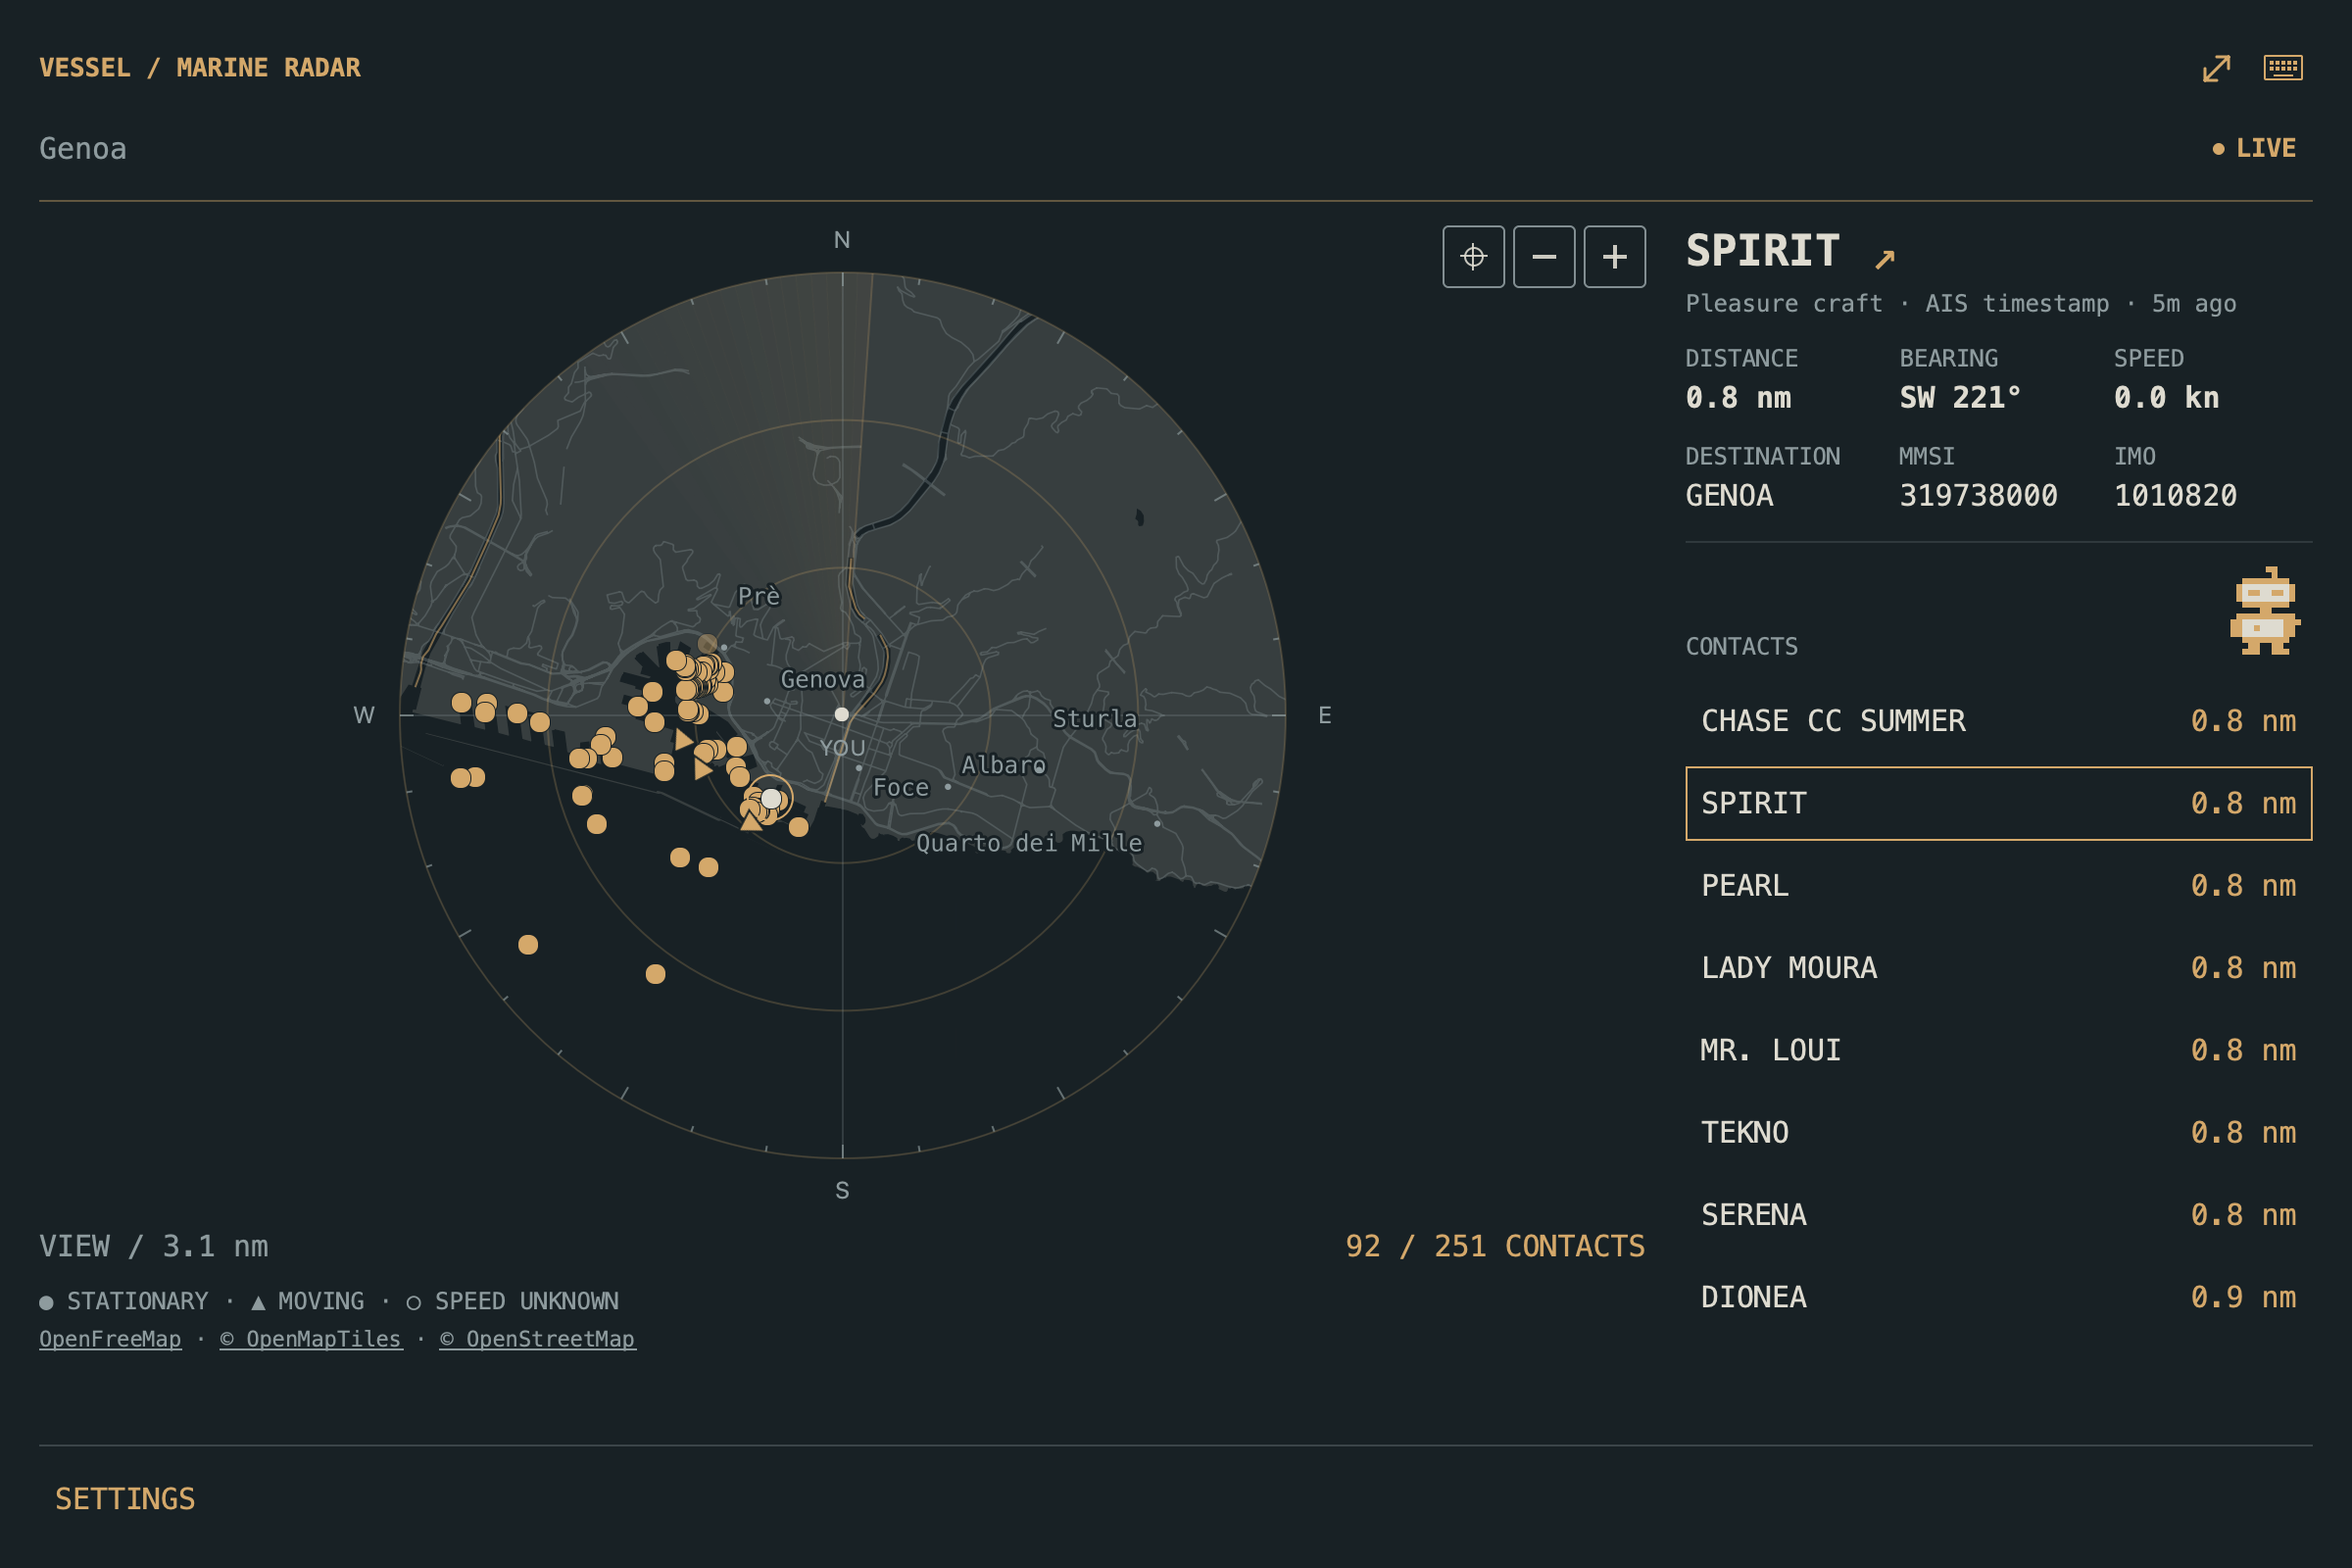
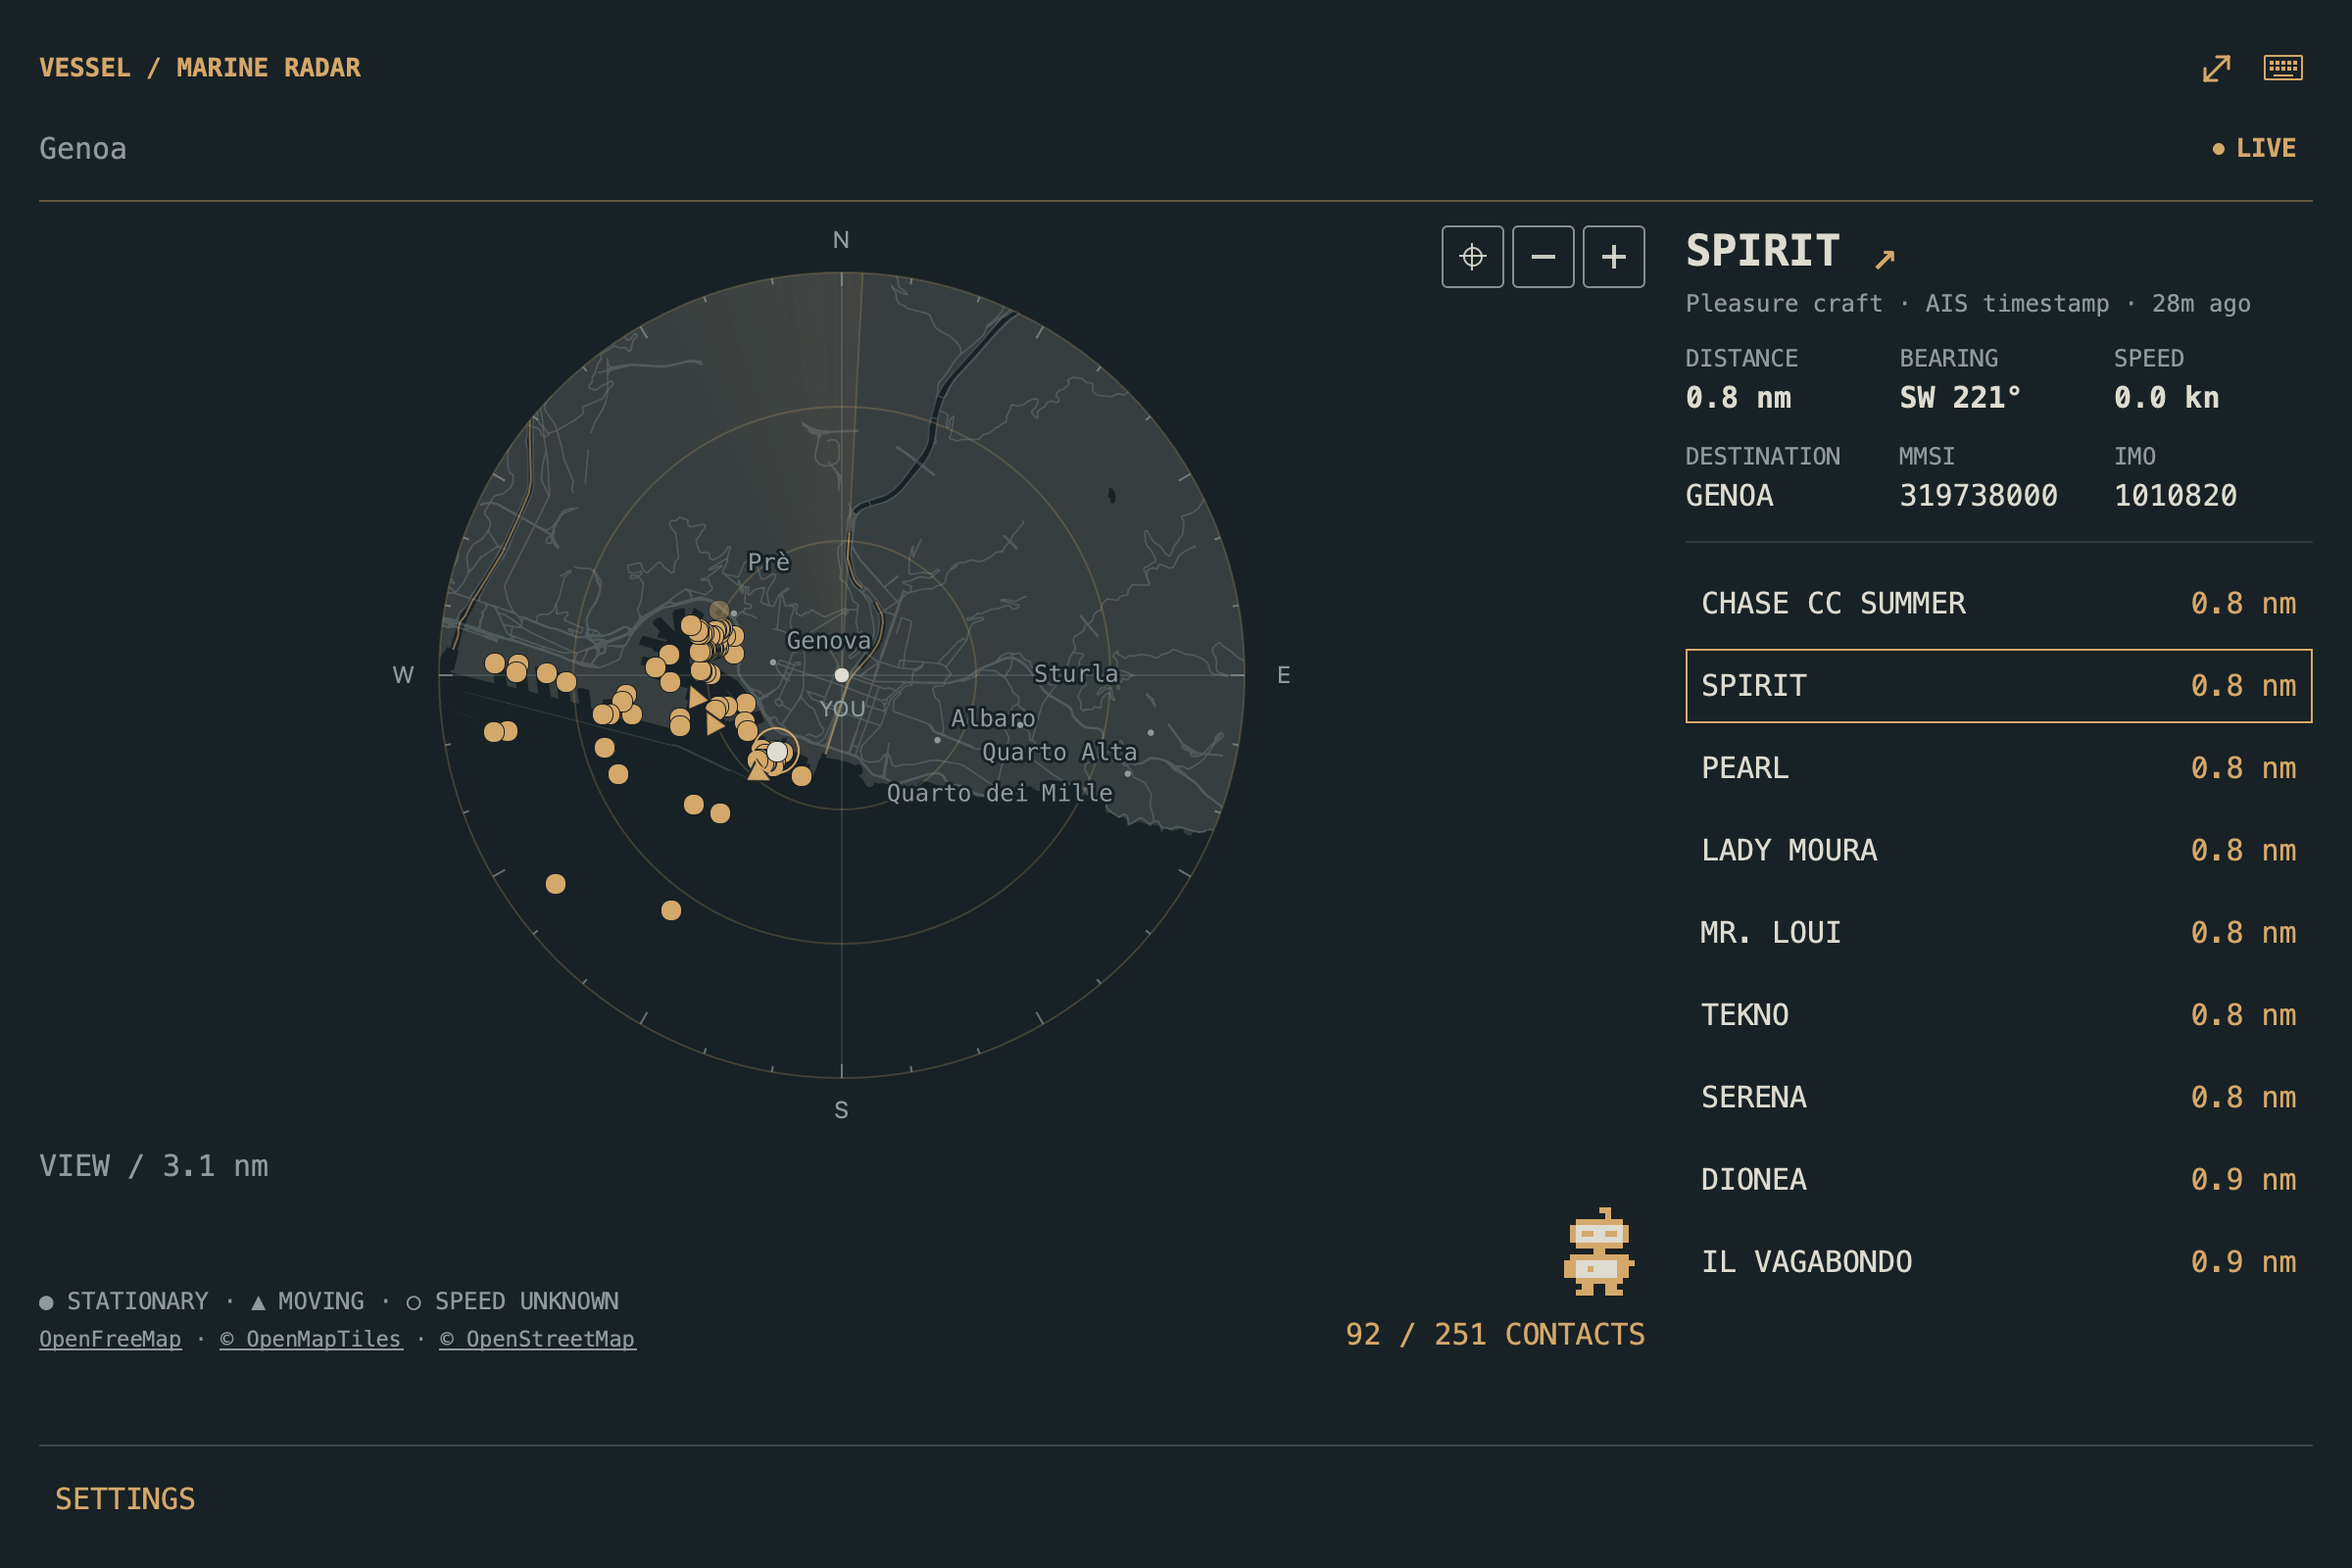
fix: align expanded contact counter with map credits

diff --git a/Widget.qml b/Widget.qml
@@ -400,7 +400,7 @@ BarWidget {
                         Item {
                             id: radarFrame
                             width: parent.width
-                            height: root.expanded ? Math.min(width, Math.max(300, keys.height - 260)) : Math.min(width, 380)
+                            height: root.expanded ? Math.min(width, Math.max(300, keys.height - 260 - Math.max(0, contactSummary.height - chartNotes.implicitHeight))) : Math.min(width, 380)
                             Radar {
                                 id: radar
                                 objectName: "radar"
@@ -425,7 +425,7 @@ BarWidget {
                         Row {
                             width: parent.width
                             Label { width: parent.width / 2; text: "VIEW / " + Model.distance(radar.viewRadiusNm, root.unit); color: Color.muted }
-                            Label { width: parent.width / 2; text: radar.visibleShips.length + " / " + (root.report.total || 0) + " CONTACTS"; horizontalAlignment: Text.AlignRight; color: Color.accent }
+                            Label { visible: !root.expanded; width: parent.width / 2; text: radar.visibleShips.length + " / " + (root.report.total || 0) + " CONTACTS"; horizontalAlignment: Text.AlignRight; color: Color.accent }
                         }
                         Label {
                             visible: !radar.detailed
@@ -435,10 +435,10 @@ BarWidget {
                         Item {
                             id: chartFooter
                             width: parent.width
-                            height: chartNotes.implicitHeight
+                            height: root.expanded ? Math.max(chartNotes.implicitHeight, contactSummary.height) : chartNotes.implicitHeight
                             Column {
                                 id: chartNotes
-                                width: parent.width
+                                width: parent.width - (root.expanded ? contactSummary.width + 12 : 0)
                                 anchors.left: parent.left; anchors.bottom: parent.bottom
                                 spacing: 6
                                 Label {
@@ -470,9 +470,24 @@ BarWidget {
                                     }
                                 }
                             }
+                            Column {
+                                id: contactSummary
+                                objectName: "contactSummary"
+                                visible: root.expanded
+                                anchors.right: parent.right; anchors.bottom: parent.bottom
+                                width: contactCount.implicitWidth
+                                spacing: 8
+                                Item { width: parent.width; height: 48; id: robotSlot }
+                                Label {
+                                    id: contactCount
+                                    objectName: "contactCount"
+                                    text: radar.visibleShips.length + " / " + (root.report.total || 0) + " CONTACTS"
+                                    color: Color.accent
+                                }
+                            }
                             Robot {
                                 id: lookout
-                                parent: root.expanded ? contactsHeader : radarFrame
+                                parent: root.expanded ? robotSlot : radarFrame
                                 objectName: "lookoutRobot"
                                 width: 48; height: 48
                                 anchors.right: parent.right; anchors.bottom: parent.bottom
@@ -587,58 +602,37 @@ BarWidget {
                             text: root.report.error || ""; color: Color.accent
                         }
                         ShipModel { id: contactModel; ships: root.ships }
-                        // Align the contact block with the map credits in the two-column view.
-                        Item {
-                            id: contactsBlock
-                            objectName: "contactsBlock"
+                        // Bound the contact list height; the receiver already sorts by distance.
+                        ListView {
+                            id: contacts
+                            objectName: "contacts"
+                            activeFocusOnTab: true
+                            Accessible.role: Accessible.List
+                            Accessible.name: "Vessels; use Up and Down to select"
+                            onActiveFocusChanged: if (activeFocus) root.ensureVisible(contacts)
+                            Keys.onUpPressed: root.selectVessel(-1)
+                            Keys.onDownPressed: root.selectVessel(1)
+                            Keys.onReturnPressed: if (root.selectedShip) root.revealShip(root.selectedShip)
+                            Keys.onEnterPressed: if (root.selectedShip) root.revealShip(root.selectedShip)
+                            Keys.onSpacePressed: if (root.selectedShip) root.revealShip(root.selectedShip)
+                            Rectangle { anchors.fill: parent; color: "transparent"; border.color: Color.accent; visible: contacts.activeFocus; z: 2 }
                             width: parent.width
-                            height: keys.wide
-                                ? Math.max(60 + Math.min(contacts.contentHeight, 144), chartColumn.height - y)
-                                : (root.expanded ? 60 : 0) + Math.min(contacts.contentHeight, 144)
-                            Item {
-                                id: contactsHeader
-                                objectName: "contactsHeader"
-                                width: parent.width; height: root.expanded ? 48 : 0
-                                visible: root.expanded
-                                anchors.bottom: contacts.top; anchors.bottomMargin: 12
-                                Label {
-                                    anchors.left: parent.left; anchors.bottom: parent.bottom
-                                    text: "CONTACTS"; font.pixelSize: root.smallTextSize; color: Color.muted
-                                }
-                            }
-                            // Bound the contact list height; the receiver already sorts by distance.
-                            ListView {
-                                id: contacts
-                                objectName: "contacts"
-                                activeFocusOnTab: true
-                                Accessible.role: Accessible.List
-                                Accessible.name: "Vessels; use Up and Down to select"
-                                onActiveFocusChanged: if (activeFocus) root.ensureVisible(contacts)
-                                Keys.onUpPressed: root.selectVessel(-1)
-                                Keys.onDownPressed: root.selectVessel(1)
-                                Keys.onReturnPressed: if (root.selectedShip) root.revealShip(root.selectedShip)
-                                Keys.onEnterPressed: if (root.selectedShip) root.revealShip(root.selectedShip)
-                                Keys.onSpacePressed: if (root.selectedShip) root.revealShip(root.selectedShip)
-                                Rectangle { anchors.fill: parent; color: "transparent"; border.color: Color.accent; visible: contacts.activeFocus; z: 2 }
-                                width: parent.width
-                                anchors.bottom: parent.bottom
-                                height: Math.min(contentHeight, parent.height - (root.expanded ? 60 : 0))
-                                clip: true
-                                model: contactModel
-                                spacing: 4
-                                delegate: Rectangle {
-                                    required property var ship
-                                    readonly property var modelData: ship
-                                    objectName: "vessel-" + modelData.mmsi
-                                    width: ListView.view.width; height: 38
-                                    color: Color.background
-                                    border.width: root.selectedShip && root.selectedShip.mmsi === modelData.mmsi ? 1 : 0
-                                    border.color: Color.accent
-                                    opacity: modelData.stale ? 0.5 : 1
-                                    Label { anchors.left: parent.left; anchors.leftMargin: 8; anchors.verticalCenter: parent.verticalCenter; width: parent.width * 0.65; elide: Text.ElideRight; text: modelData.name || modelData.mmsi }
-                                    Label { anchors.right: parent.right; anchors.rightMargin: 8; anchors.verticalCenter: parent.verticalCenter; text: Model.distance(modelData.distance, root.unit); color: Color.accent }
-                                    MouseArea { anchors.fill: parent; cursorShape: Qt.PointingHandCursor; onClicked: root.revealShip(modelData) }
-                                }
+                            height: Math.min(contentHeight, keys.wide ? Math.max(144, keys.height - 380) : 144)
+                            clip: true
+                            model: contactModel
+                            spacing: 4
+                            delegate: Rectangle {
+                                required property var ship
+                                readonly property var modelData: ship
+                                objectName: "vessel-" + modelData.mmsi
+                                width: ListView.view.width; height: 38
+                                color: Color.background
+                                border.width: root.selectedShip && root.selectedShip.mmsi === modelData.mmsi ? 1 : 0
+                                border.color: Color.accent
+                                opacity: modelData.stale ? 0.5 : 1
+                                Label { anchors.left: parent.left; anchors.leftMargin: 8; anchors.verticalCenter: parent.verticalCenter; width: parent.width * 0.65; elide: Text.ElideRight; text: modelData.name || modelData.mmsi }
+                                Label { anchors.right: parent.right; anchors.rightMargin: 8; anchors.verticalCenter: parent.verticalCenter; text: Model.distance(modelData.distance, root.unit); color: Color.accent }
+                                MouseArea { anchors.fill: parent; cursorShape: Qt.PointingHandCursor; onClicked: root.revealShip(modelData) }
                             }
                         }
                     }

diff --git a/tools/render_previews.py b/tools/render_previews.py
@@ -166,11 +166,11 @@ def main():
 
     def verify_layout(expanded):
         robot = root.findChild(QObject, "lookoutRobot")
-        contacts = root.findChild(QObject, "contacts")
+        contacts = root.findChild(QObject, "contactCount")
         if expanded:
-            header = root.findChild(QObject, "contactsHeader")
+            header = root.findChild(QObject, "contactSummary")
             credit = root.findChild(QObject, "mapCredits")
-            assert robot.parentItem() == header
+            assert robot.parentItem().parentItem() == header
             assert (
                 robot.mapToScene(QPointF(0, robot.height())).y()
                 <= contacts.mapToScene(QPointF(0, 0)).y()

diff --git a/docs/development.md b/docs/development.md
@@ -133,7 +133,7 @@ The renderer writes `docs/live-detail-preview.png` (dark),
 `preview.png` for the catalog (2400 × 1600 pixels). It also writes
 `docs/compact-preview-dark.png` and `docs/compact-preview-light.png` (880 × 1700).
 The renderer selects a nearby received vessel with IMO and destination when available,
-and checks that the expanded robot sits above Contacts, the contact block ends at
+and checks that the expanded robot sits above Contacts, the contact counter ends at
 the map credits, and the compact robot stays inside the radar frame. This checks Qt
 rendering, not Hyprland integration. The marketplace serves optimized copies of
 `preview.png`, so its catalog must refresh after the updated image is pushed.
